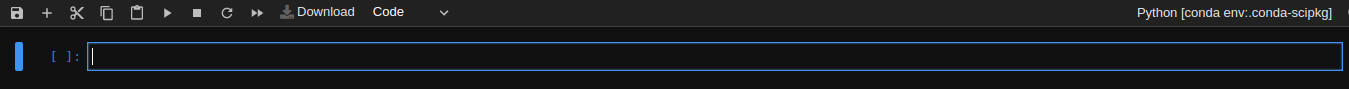
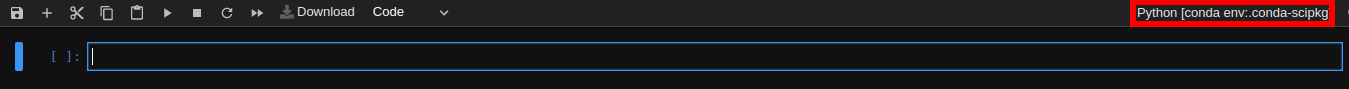
included notebook image

Changed region(s): [[0.8406, 0.0, 0.9963, 0.3146]]

diff --git a/templates/faq.html b/templates/faq.html
@@ -74,11 +74,15 @@ Below is an example that creates an environment called <code>scipkg</code>, whic
 <img src="{{ static_url("external/images/faq/conda-create.png") }}" alt="Conda Create command">
 <em>Do not worry if you recieve a warning about newer versions of conda when running the <code>conda create</code> command. Just proceed through the installation by pressing <code>y</code> or by initially running <code>conda create</code> with a <code>-y</code> flag.</em></p>
 </li>
-<li><p>Activate your environment using <code>conda activate your_env_name</code>. You should now see <code>(your_env_name)</code> at the beginning of the  terminal prompt. This indicates that the environment is active. Note that the environment will only be active within that specific terminal session. To deactivate, run <code>conda deactivate</code>.
+<li><p>Activate your environment using <code>conda activate your_env_name</code>. You should now see <code>(your_env_name)</code> at the beginning of the terminal prompt. This indicates that the environment is active. Note that the environment will only be active within that specific terminal session. To deactivate, run <code>conda deactivate</code>.
 <img src="{{ static_url("external/images/faq/conda-activate.png") }}" alt="Conda Activate command"></p>
 </li>
-<li><p>If you specified a Jupyter kernel then you may run your environment as a Jupyter notebook or console. open the launcher (Ctrl+Shift+L) and select your environment from there. Using the <code>scipkg</code> example, the environment will appear as <code>Python [conda env:.conda-scipkg]</code>. You may have to wait a little bit for the icon to appear; refresh the webpage if needed.
-<img src="{{ static_url("external/images/faq/env-launcher.png") }}" alt="Launch the conda environment"></p>
+<li><p>If you specified a Jupyter kernel then you may run your environment as a Jupyter notebook or console. Open the launcher (Ctrl+Shift+L) and select your environment from there. Using the <code>scipkg</code> example, the environment will appear as <code>Python [conda env:.conda-scipkg]</code>. You may have to wait a little bit for the icon to appear; refresh the webpage if needed.
+<img src="{{ static_url("external/images/faq/env-launcher.png") }}" alt="Launch the conda environment">
+Once the notebook opens, you can verify that you are using the proper environment by looking in the top right corner;
+<img src="{{ static_url("external/images/faq/notebook.png") }}" alt="Notebook environment"></p>
+</li>
+<li><p>Now your conda environment is created! You may access it in the terminal by <code>conda activate 'your_env_name'</code> or as a notebook from the launcher at any time.</p>
 </li>
 </ol>
 <p>Note that if you want to use your environment with a Jupyter notebook, you must install a <a href="#what-is-a-jupyter-kernel">Jupyter kernel</a> along with your packages. Here's a list of common languages and their kernels:</p>

diff --git a/faqrenderer/faq.md b/faqrenderer/faq.md
@@ -53,11 +53,15 @@ The best way to permanently install new packages onto your account is through co
   ![Conda Create command](conda-create.png)
   *Do not worry if you recieve a warning about newer versions of conda when running the `conda create` command. Just proceed through the installation by pressing `y` or by initially running `conda create` with a `-y` flag.*
 
-3. Activate your environment using `conda activate your_env_name`. You should now see `(your_env_name)` at the beginning of the  terminal prompt. This indicates that the environment is active. Note that the environment will only be active within that specific terminal session. To deactivate, run `conda deactivate`.
+3. Activate your environment using `conda activate your_env_name`. You should now see `(your_env_name)` at the beginning of the terminal prompt. This indicates that the environment is active. Note that the environment will only be active within that specific terminal session. To deactivate, run `conda deactivate`.
   ![Conda Activate command](conda-activate.png)
 
-4. If you specified a Jupyter kernel then you may run your environment as a Jupyter notebook or console. open the launcher (Ctrl+Shift+L) and select your environment from there. Using the `scipkg` example, the environment will appear as `Python [conda env:.conda-scipkg]`. You may have to wait a little bit for the icon to appear; refresh the webpage if needed.
+4. If you specified a Jupyter kernel then you may run your environment as a Jupyter notebook or console. Open the launcher (Ctrl+Shift+L) and select your environment from there. Using the `scipkg` example, the environment will appear as `Python [conda env:.conda-scipkg]`. You may have to wait a little bit for the icon to appear; refresh the webpage if needed.
   ![Launch the conda environment](env-launcher.png)
+  Once the notebook opens, you can verify that you are using the proper environment by looking in the top right corner;
+  ![Notebook environment](notebook.png) 
+
+5. Now your conda environment is created! You may access it in the terminal by `conda activate 'your_env_name'` or as a notebook from the launcher at any time. 
 
 Note that if you want to use your environment with a Jupyter notebook, you must install a [Jupyter kernel](#what-is-a-jupyter-kernel) along with your packages. Here's a list of common languages and their kernels:
 
